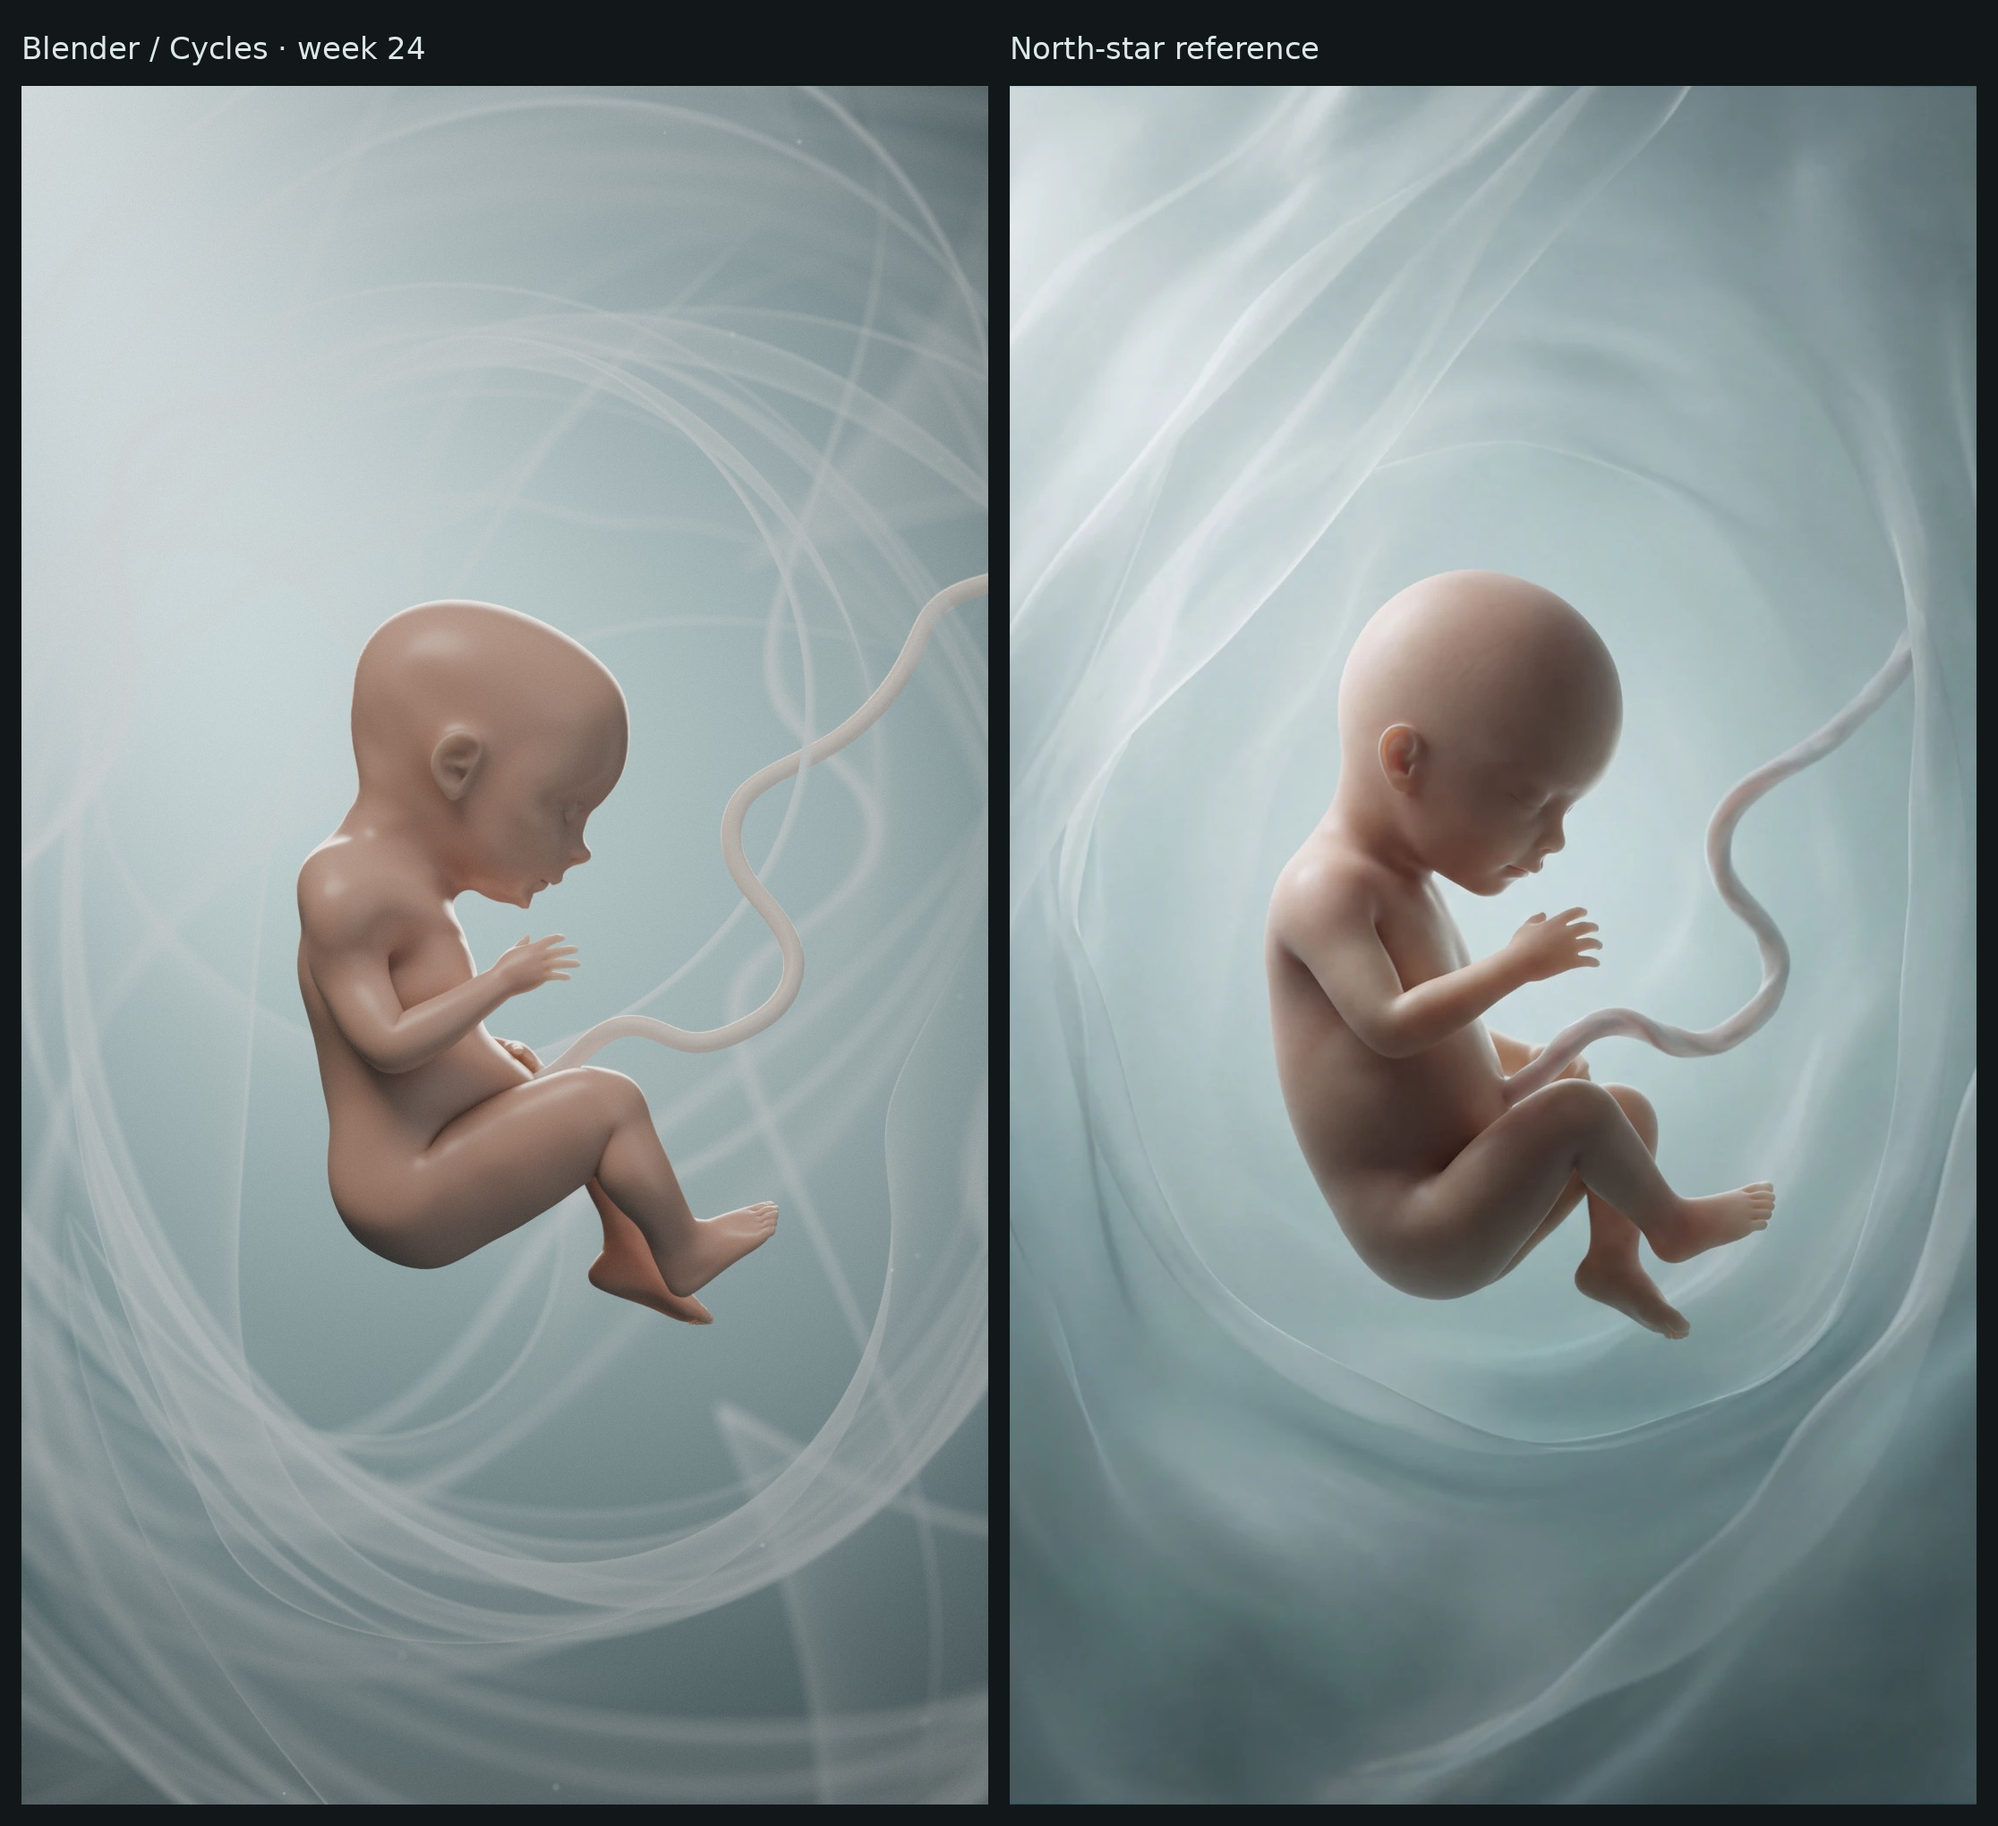
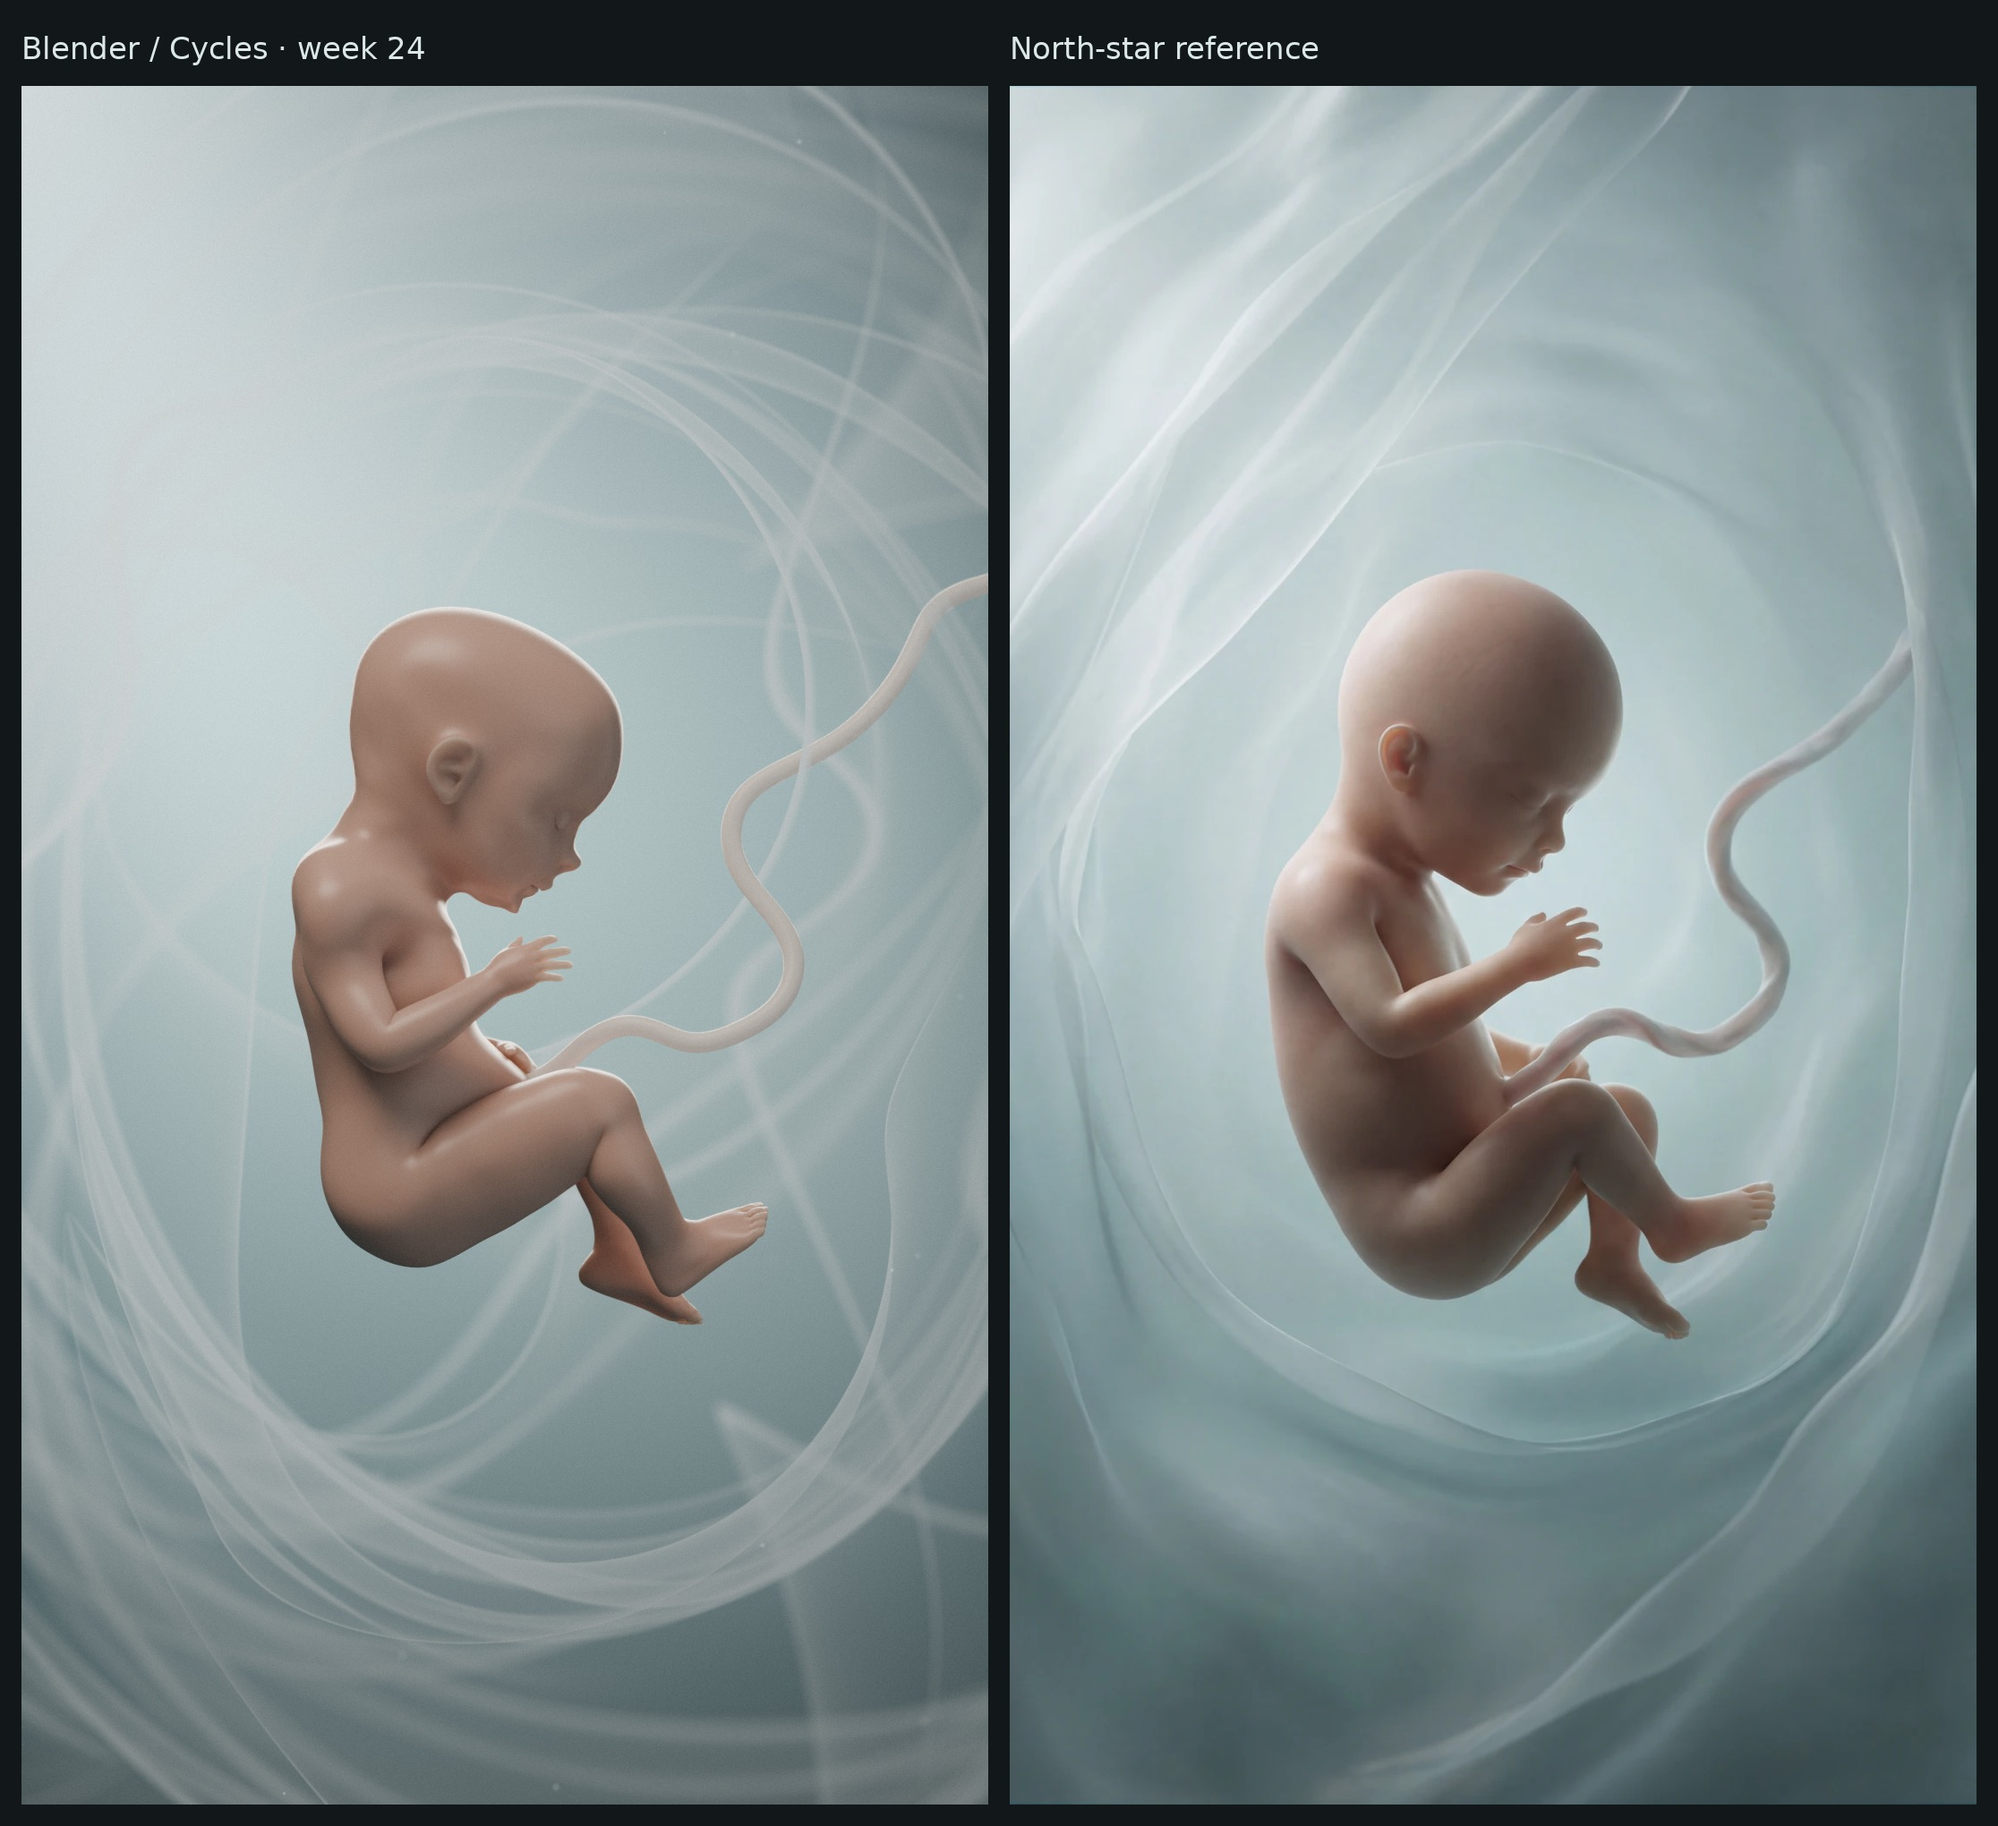
Fetal Growth Explorer: face profile landmarks in the pose solve
Nose tip and lower lip (hm08 midline vertices 297, 467) are fitted to their
traced positions on the reference profile alongside the body outline and
cranium circle, so the head's tilt and the face placement match (within
~10 px at 1116x2000).

Claude-Session: https://claude.ai/code/session_012GPESLoAzkgxi7MKnnsx3V

diff --git a/fetal-growth-explorer/blender/scripts/fge/mhbody.py b/fetal-growth-explorer/blender/scripts/fge/mhbody.py
@@ -57,6 +57,9 @@ HEAD_DROP = 0.06
 FIT_SIZE = (279, 500)
 REF_FRAME = (1116, 2000)
 REF_CRANIUM = (542.0, 729.0, 164.0)  # outline circle of the reference cranium, px in the reference frame
+# face profile landmarks traced on the reference silhouette (px) and the hm08
+# midline vertices they correspond to: they fix how far the chin is tucked
+FACE_POINTS = {297: (640.0, 876.0), 467: (615.0, 907.0)}  # nose tip, lower lip
 
 # reference landmark -> bone whose head sits on it
 JOINT_BONES = {
@@ -172,13 +175,19 @@ class _Poser:
         cx, cy, r = self.cranium(V)
         rx, ry, rr = REF_CRANIUM
         head = ((cx - rx) ** 2 + (cy - ry) ** 2 + (r - rr) ** 2) / rr**2
-        return body + 2.0 * head + 0.02 * np.sum(((x - PRIOR) / SIGMA) ** 2)
+        idx = list(FACE_POINTS)
+        uv, _ = project_points(V[idx], HERO, REF_FRAME)
+        face = np.sum((uv - np.array([FACE_POINTS[i] for i in idx])) ** 2) / rr**2
+        return body + 2.0 * head + 2.0 * face + 0.02 * np.sum(((x - PRIOR) / SIGMA) ** 2)
 
     def solve(self, max_evals=700):
         simplex = np.vstack([PRIOR] + [PRIOR + np.eye(len(PRIOR))[i] * SIGMA[i] * 0.6 for i in range(len(PRIOR))])
         res = minimize(self.loss, PRIOR.copy(), method="Nelder-Mead", options={"xatol": 0.2, "fatol": 1e-4, "maxfev": max_evals, "initial_simplex": simplex})
         self.pose(res.x)
-        cr = np.round(self.cranium(self.rig.verts()), 1)
+        V = self.rig.verts()
+        cr = np.round(self.cranium(V), 1)
+        uv, _ = project_points(V[list(FACE_POINTS)], HERO, REF_FRAME)
+        print(f"[fge] face points {np.round(uv, 0).tolist()} vs {list(FACE_POINTS.values())}")
         print(f"[fge] pose: lumbar {res.x[0]:.0f}°, thoracic {res.x[1]:.0f}°, neck {res.x[2]:.0f}°, head {res.x[3]:.0f}°; loss {res.fun:.3f}; cranium {cr} vs {REF_CRANIUM}")
         return res.x
 
